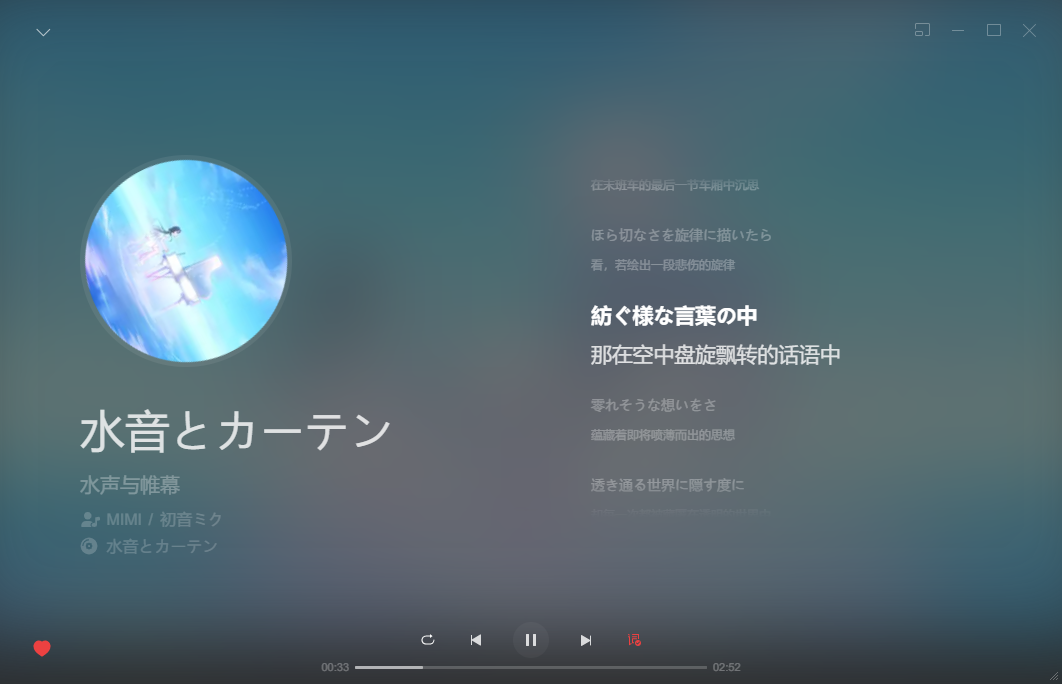
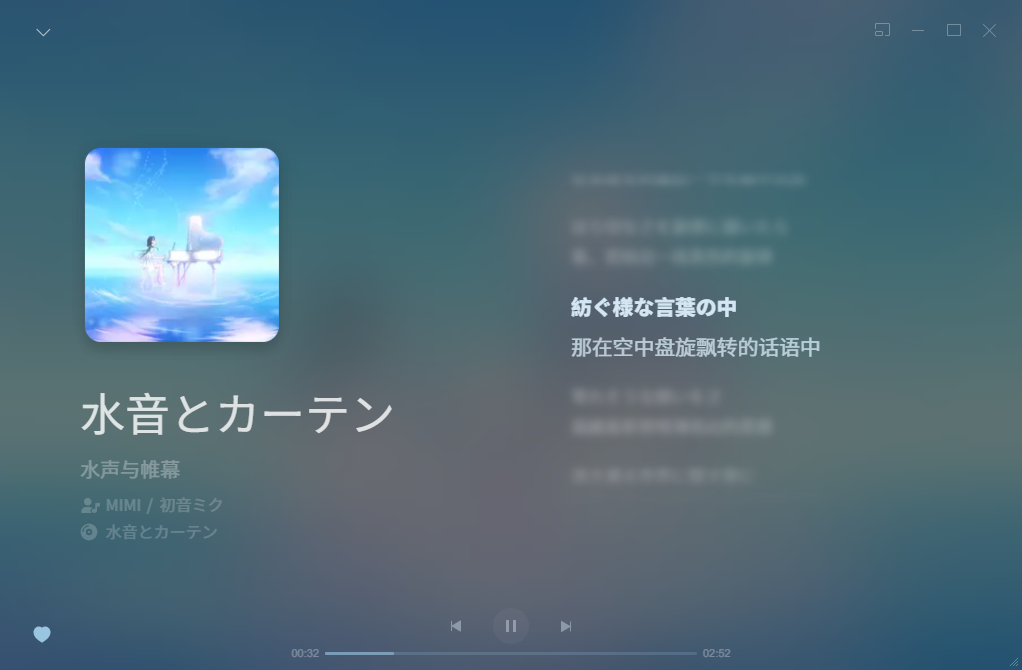
Add background blur, dim, opacity and partial options

diff --git a/RefinedNowPlaying/settings-menu.html b/RefinedNowPlaying/settings-menu.html
@@ -1,21 +1,44 @@
 <input id="rnp-settings" class="open" type="checkbox"></input>
 <div id="rnp-settings-menu">
-	<div class="rnp-checkbox-wrapper">
-		<input id="rectangle-cover" type="checkbox" class="rnp-checkbox">
-		<label for="rectangle-cover" class="rnp-checkbox-label">方形专辑封面</label>
+	<div class="rnp-group">
+		<div class="rnp-group-title">常规</div>
+		<div class="rnp-checkbox-wrapper">
+			<input id="rectangle-cover" type="checkbox" class="rnp-checkbox">
+			<label for="rectangle-cover" class="rnp-checkbox-label">方形专辑封面</label>
+		</div>
+		<div class="rnp-checkbox-wrapper">
+			<input id="lyric-blur" type="checkbox" class="rnp-checkbox">
+			<label for="lyric-blur" class="rnp-checkbox-label">歌词模糊效果</label>
+		</div>
+		<div class="rnp-checkbox-wrapper">
+			<input id="use-notosans" type="checkbox" class="rnp-checkbox">
+			<label for="use-notosans" class="rnp-checkbox-label">思源黑体</label>
+		</div>
+		<span class="rnp-checkbox-note">需要电脑中有此字体</span>
+		<div class="rnp-checkbox-wrapper">
+			<input id="hide-comments" type="checkbox" class="rnp-checkbox">
+			<label for="hide-comments" class="rnp-checkbox-label">隐藏评论区</label>
+		</div>
 	</div>
-	<div class="rnp-checkbox-wrapper">
-		<input id="lyric-blur" type="checkbox" class="rnp-checkbox">
-		<label for="lyric-blur" class="rnp-checkbox-label">歌词模糊效果</label>
-	</div>
-	<div class="rnp-checkbox-wrapper">
-		<input id="use-notosans" type="checkbox" class="rnp-checkbox">
-		<label for="use-notosans" class="rnp-checkbox-label">思源黑体</label>
-	</div>
-	<span class="rnp-checkbox-note">需要电脑中有此字体</span>
-	<div class="rnp-checkbox-wrapper">
-		<input id="hide-comments" type="checkbox" class="rnp-checkbox">
-		<label for="hide-comments" class="rnp-checkbox-label">隐藏评论区</label>
+
+	<div class="rnp-group">
+		<div class="rnp-group-title">背景</div>
+		<div class="rnp-slider-wrapper">
+			<label for="bg-blur" class="rnp-slider-label">模糊<button class="rnp-slider-reset"></button></label>
+			<input id="bg-blur" type="range" class="rnp-slider" min="0" max="100" value="36" default="36">
+		</div>
+		<div class="rnp-slider-wrapper">
+			<label for="bg-dim" class="rnp-slider-label">暗化<button class="rnp-slider-reset"></button></label>
+			<input id="bg-dim" type="range" class="rnp-slider" min="0" max="100" value="55" default="55">
+		</div>
+		<div class="rnp-slider-wrapper bg-opacity">
+			<label for="bg-opacity" class="rnp-slider-label">透明度<button class="rnp-slider-reset"></button></label>
+			<input id="bg-opacity" type="range" class="rnp-slider" min="0" max="100" value="0" default="0">
+		</div>
+		<div class="rnp-checkbox-wrapper">
+			<input id="partial-bg" type="checkbox" class="rnp-checkbox">
+			<label for="partial-bg" class="rnp-checkbox-label">局部背景</label>
+		</div>
 	</div>
 </div>
 
@@ -74,22 +97,6 @@
 	.rnp-checkbox-wrapper .rnp-checkbox:checked:hover {
 		background-color: var(--accent-color);
 	}
-
-	#rnp-settings-menu {
-		position: fixed;
-		z-index: 10;
-		right: 30px;
-		top: 100px;
-		font-size: 16px;
-		backdrop-filter: blur(30px);
-		background: #00000022;
-		padding: 16px 20px;
-		border-radius: 10px;
-		transition: all .3s ease;
-		transform: translateY(-10px);
-		opacity: 0;
-		pointer-events: none;
-	}
 	.rnp-checkbox-wrapper {
 		display: flex;
 		flex-direction: row;
@@ -116,6 +123,90 @@
 		margin-bottom: 0;
 	}
 
+
+	.rnp-slider-wrapper {
+		display: flex;
+		flex-direction: column;
+		align-items: flex-start;
+		margin-bottom: 15px;
+		position: relative;
+		padding-bottom: 4px;
+		height: 38px;
+		overflow: hidden;
+		transition: all .3s ease;
+	}
+	.rnp-slider-label {
+		margin-bottom: 8px;
+	}
+	.rnp-slider {
+		-webkit-appearance: none;
+		background-color: #dfe1e422;
+		border-radius: 20px;
+		width: 100%;
+		height: 8px;
+	}
+	.rnp-slider::-webkit-slider-thumb {
+		-webkit-appearance: none;
+		width: 10px;
+		height: 10px;
+		background: #fff;
+		cursor: pointer;
+		border-radius: 10px;
+		transition: all .2s ease;
+	}
+	.rnp-slider::-webkit-slider-thumb:hover {
+		-webkit-appearance: none;
+		width: 8px;
+		height: 16px;
+		cursor: pointer;
+	}
+	.rnp-slider-reset {
+		width: 8px;
+		height: 8px;
+		border-radius: 10px;
+		border: none;
+		opacity: .3;
+		margin-left: 6px;
+		transform: translateY(-1px);
+		background-color: #fff;
+		transition: background-color .2s ease, opacity .2s ease;
+	}
+	.rnp-slider-reset:hover {
+		opacity: 1;
+		background-color: var(--accent-color);
+	}
+	.rnp-slider-wrapper:not(.changed) .rnp-slider-reset {
+		opacity: 0;
+		pointer-events: none;
+	}
+
+
+
+	#rnp-settings-menu {
+		position: fixed;
+		z-index: 10;
+		right: 30px;
+		top: 100px;
+		font-size: 16px;
+		backdrop-filter: blur(30px);
+		background: #00000022;
+		padding: 16px 20px;
+		border-radius: 10px;
+		transition: all .3s ease;
+		transform: translateY(-10px);
+		opacity: 0;
+		pointer-events: none;
+		display: flex;
+		gap: 20px;
+	}
+
+	.rnp-group-title {
+		margin-bottom: 15px;
+		font-size: 17px;
+		opacity: .6;
+		font-weight: bold;
+	}
+
 	#rnp-settings {
 		appearance: none;
 		position: fixed;
@@ -131,7 +222,7 @@
 		height: 20px;
 		color: transparent;
 		opacity: 0;
-		transition: opacity .3s ease;
+		transition: opacity .3s ease, top .3s ease, right .3s ease;
 		cursor: pointer;
 		z-index: 9;
 	}
@@ -148,5 +239,16 @@
 		pointer-events: all;
 		opacity: 1;
 		transform: none;
+	}
+</style>
+
+
+<style>
+	body:not(.partial-bg) .bg-opacity {
+		opacity: 0;
+		height: 0;
+		padding-bottom: 0;
+		margin-bottom: 0;
+		pointer-events: none;
 	}
 </style>

diff --git a/RefinedNowPlaying/main.js b/RefinedNowPlaying/main.js
@@ -246,38 +246,73 @@ const addOrRemoveGlobalClassByOption = (className, optionValue) => {
 }
 
 const addSettingsMenu = async () => {
+	const sliderEnhance = (slider) => {
+		slider.addEventListener("input", e => {
+			const value = e.target.value;
+			const min = e.target.min;
+			const max = e.target.max;
+			const percent = (value - min) / (max - min);
+			const bg = `linear-gradient(90deg, rgb(var(--accent-color-rgb)) ${percent * 100}%, #dfe1e422 ${percent * 100}%)`;
+			e.target.style.background = bg;
+
+			console.log(value, e.target.getAttribute("default"), value == e.target.getAttribute("default")); 
+			if (value != e.target.getAttribute("default")) {
+				e.target.parentElement.classList.add("changed");
+			} else {
+				e.target.parentElement.classList.remove("changed");
+			}				
+		});
+		slider.parentElement.querySelector(".rnp-slider-reset").addEventListener("click", e => {
+			const slider = e.target.parentElement.parentElement.querySelector(".rnp-slider");
+			slider.value = slider.getAttribute("default");
+			slider.dispatchEvent(new Event("input"));
+			slider.dispatchEvent(new Event("change"));
+		});
+		slider.dispatchEvent(new Event("input"));
+	}
+	const bindCheckboxToClass = (checkbox, className, defaultValue = false) => {
+		checkbox.checked = getSetting(checkbox.id, defaultValue);
+		checkbox.addEventListener("change", e => {
+			setSetting(checkbox.id, e.target.checked);
+			addOrRemoveGlobalClassByOption(className, e.target.checked);
+		});
+		addOrRemoveGlobalClassByOption(className, checkbox.checked);
+	}
+	const bindSliderToCSSVariable = (slider, variable, defalutValue = 0, event = 'input', mapping = (x) => { return x }) => {
+		slider.value = getSetting(slider.id, defalutValue);
+		slider.dispatchEvent(new Event("input"));
+		slider.addEventListener(event, e => {
+			const value = e.target.value;
+			document.body.style.setProperty(variable, mapping(value));
+		});
+		slider.addEventListener("change", e => {
+			setSetting(slider.id, e.target.value);
+		});
+		document.body.style.setProperty(variable, mapping(slider.value));
+		sliderEnhance(slider);
+	}
+
 	const initSettings = () => {
 		const rectangleCover = document.querySelector('#rectangle-cover');
 		const lyricBlur = document.querySelector('#lyric-blur');
 		const useNotosans = document.querySelector('#use-notosans');
 		const hideComments = document.querySelector('#hide-comments');
+		const partialBg = document.querySelector('#partial-bg');
 
-		rectangleCover.checked = getSetting('rectangle-cover', true);
-		lyricBlur.checked = getSetting('lyric-blur', false);
-		useNotosans.checked = getSetting('use-notosans', false);
-		hideComments.checked = getSetting('hide-comments', false);
+		bindCheckboxToClass(rectangleCover, 'rectangle-cover', true);
+		bindCheckboxToClass(lyricBlur, 'lyric-blur', true);
+		bindCheckboxToClass(useNotosans, 'use-notosans', false);
+		bindCheckboxToClass(hideComments, 'hide-comments', false);
+		bindCheckboxToClass(partialBg, 'partial-bg', false);
+		
 
-		rectangleCover.addEventListener('change', () => {
-			setSetting('rectangle-cover', rectangleCover.checked);
-			addOrRemoveGlobalClassByOption('rectangle-cover', rectangleCover.checked);
-		});
-		lyricBlur.addEventListener('change', () => {
-			setSetting('lyric-blur', lyricBlur.checked);
-			addOrRemoveGlobalClassByOption('lyric-blur', lyricBlur.checked);
-		});
-		useNotosans.addEventListener('change', () => {
-			setSetting('use-notosans', useNotosans.checked);
-			addOrRemoveGlobalClassByOption('use-notosans', useNotosans.checked);
-		});
-		hideComments.addEventListener('change', () => {
-			setSetting('hide-comments', hideComments.checked);
-			addOrRemoveGlobalClassByOption('hide-comments', hideComments.checked);
-		});
+		const bgBlur = document.querySelector('#bg-blur');
+		const bgDim = document.querySelector('#bg-dim');
+		const bgOpacity = document.querySelector('#bg-opacity');
 
-		addOrRemoveGlobalClassByOption('rectangle-cover', rectangleCover.checked);
-		addOrRemoveGlobalClassByOption('lyric-blur', lyricBlur.checked);
-		addOrRemoveGlobalClassByOption('use-notosans', useNotosans.checked);
-		addOrRemoveGlobalClassByOption('hide-comments', hideComments.checked);
+		bindSliderToCSSVariable(bgBlur, '--bg-blur', 36, 'change', (x) => { return x + 'px' });
+		bindSliderToCSSVariable(bgDim, '--bg-dim', 55, 'input', (x) => { return x / 100 });
+		bindSliderToCSSVariable(bgOpacity, '--bg-opacity', 0, 'input', (x) => { return 1 - x / 100 });
 	}
 	const settingsMenu = document.createElement('div');
 	settingsMenu.id = 'settings-menu';

diff --git a/RefinedNowPlaying/styles.css b/RefinedNowPlaying/styles.css
@@ -10,19 +10,29 @@
     background-position: center;
     background-repeat: no-repeat;
     background-size: cover;
-    filter: brightness(0.45);
     opacity: 1;
     pointer-events: none;
     position: fixed;
     left: 0;
     top: 0;
+    overflow: hidden;
+	transition: left 0.3s ease, top 0.3s ease, width 0.3s ease, height 0.3s ease, border-radius 0.3s ease;
+}
+#cd-bg-blur::before {
+    content: "";
+    position: absolute;
+    width: 100%;
+    height: 100%;
+    background: #000;
+    opacity: var(--bg-dim, 0.55);
+    pointer-events: none;
 }
 #cd-bg-blur::after {
 	content: "";
 	position: absolute;
 	width: 100%;
 	height: 100%;
-	backdrop-filter: blur(36px);
+	backdrop-filter: blur(var(--bg-blur, 36px));
 	pointer-events: none;
 }
 .g-single-track .content {
@@ -609,4 +619,23 @@ body.hide-comments .g-single-track .g-bd2 {
 }
 body.hide-comments .g-singlec-ct {
     overflow-y: hidden;
+}
+
+
+
+body.partial-bg #cd-bg-blur {
+    left: 30px;
+    top: 60px;
+    width: calc(100% - 60px);
+    height: calc(100% - 133px);
+    border-radius: 16px;
+	opacity: var(--bg-opacity, 1);
+}
+body.partial-bg #rnp-settings {
+    right: 50px;
+    top: 85px;
+}
+body.partial-bg #rnp-settings-menu {
+    right: 50px;
+    top: 120px;
 }

diff --git a/README.md b/README.md
@@ -17,9 +17,13 @@ https://user-images.githubusercontent.com/23134847/202904157-74c344c9-a3de-44d4-
 
 ![screenshot2](screenshot2.png)
 
+![screenshot2](screenshot3.png)
+
 # TODO
 
 - [x] 自定义菜单
 - [x] 方形封面
 - [x] 歌词模糊
+- [ ] 渐变背景
+- [ ] 主题色切换开关
 - [ ] 适配亮色主题
